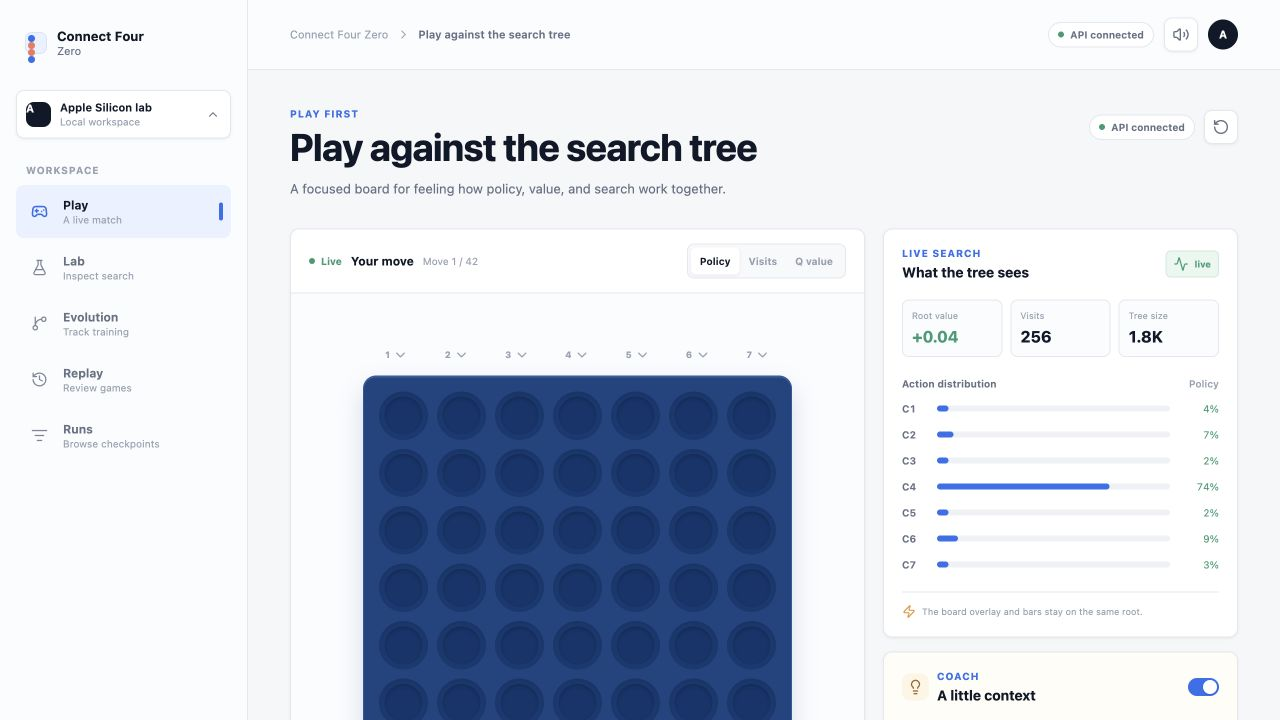
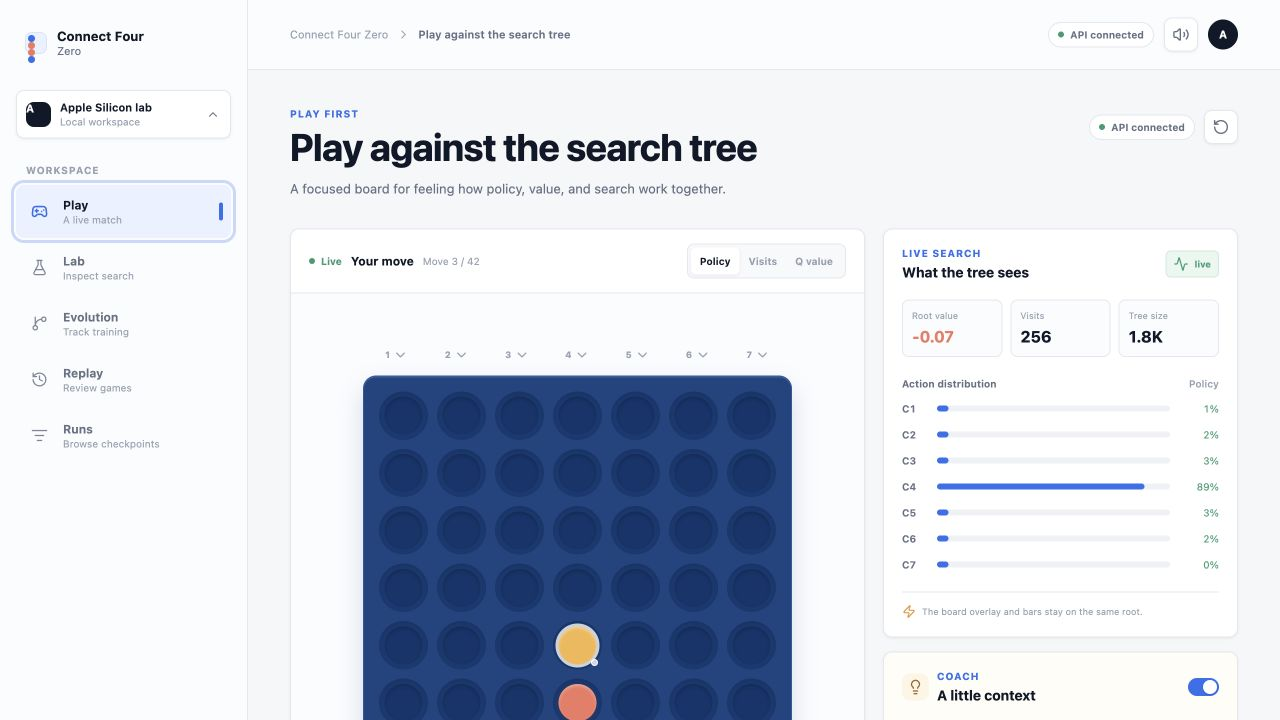
docs: tell the Connect Four Zero story

diff --git a/README.md b/README.md
@@ -1,45 +1,26 @@
+<div align="center">
+
 # Connect Four Zero
 
-A local, inspectable AlphaGo Zero-style laboratory for standard 7x6 Connect Four. The agent starts from random weights, creates its own training data through self-play, evaluates new candidates against previous champions, and exposes its policy, value, and MCTS search in a playable interface.
+**A neural network wakes up knowing nothing about Connect Four. It plays itself, argues with its past selves, and slowly becomes an opponent you can challenge.**
 
-![Connect Four Zero play interface](docs/connect-four-zero.jpg)
+No opening book. No human games. No handcrafted strategy. No perfect solver hiding inside training.
 
-## What You Can Do
+</div>
 
-- Play against historical checkpoints at four search strengths.
-- Watch policy priors, visit counts, Q-values, root value, and principal variations.
-- Train a new model from zero for 5, 15, 30, or 60 minutes, or indefinitely.
-- Scrub through self-play, evaluation, and human games.
-- Compare generations and promotion results.
-- Export recorded games as MP4 and portable replay JSON.
-- Grade moves with an isolated exact Connect Four solver in Coach mode.
+![A live game against the generation-19 checkpoint, with MCTS policy and value exposed](docs/connect-four-zero.jpg)
 
-The solver is an auditor only. It is not imported by self-play or training.
+> **In short:** this repository contains the complete learning loop, a one-hour self-trained checkpoint, a playable neural opponent, a live MCTS microscope, generation history, exact move auditing, and deterministic replay export.
 
-## Bundled Champion
+## What Is This?
 
-The included checkpoint was trained by this repository for one hour on an Apple M5 Max:
+Connect Four Zero is a small, inspectable AlphaGo Zero-style experiment that runs locally on Apple Silicon.
 
-| Measurement | Result |
-| --- | ---: |
-| Network | 64 channels, 6 residual blocks |
-| Parameters | 449,370 |
-| Promoted generations | 19 |
-| Recorded self-play games | 1,905 |
-| Replay positions | 57,264 |
-| Against uniform random, 64 MCTS simulations | 200 wins / 200 games |
-| Exact tactical probes, 800 MCTS simulations | 21 / 24 |
+The model begins with random weights. It generates every lesson by playing against itself, trains on the positions it created, challenges the reigning checkpoint, and promotes a new champion only when the candidate wins the arena. The browser lets you interrupt that loop, inspect what the search tree believes, replay old generations, or sit down across from the resulting model yourself.
 
-This is a self-trained research checkpoint, not a perfect Connect Four solver. A human can beat it. New training runs always initialize randomly and cannot consume the bundled weights, games, or replay buffer.
+The point is not to claim that Connect Four has been solved. It is to make the machinery of self-play tangible. You can watch policy become less diffuse, see MCTS disagree with the raw network, discover where the value head is confidently wrong, and then punish those mistakes in a real game.
 
-## Run It
-
-Requirements:
-
-- Apple Silicon Mac with PyTorch MPS for production training
-- Conda
-- Node.js and npm
-- ffmpeg for MP4 replay export
+## Play In About A Minute
 
 ```bash
 conda env create -f environment.yml
@@ -49,45 +30,167 @@ npm --prefix web run build
 make start
 ```
 
-Open [http://127.0.0.1:8000](http://127.0.0.1:8000).
+Open [http://127.0.0.1:8000](http://127.0.0.1:8000). You land directly in **Play**.
 
-For frontend and API development with hot reload:
+### How To Play
 
-```bash
-make dev
+1. You are red and move first. Click any column to drop a disc.
+2. Zero searches the position, shows how its visits evolve, and drops the yellow response.
+3. Switch the board overlay between **Policy**, **Visits**, and **Q value**.
+4. Choose a checkpoint and search budget:
+   - **Beginner:** early checkpoint, 32 simulations
+   - **Intermediate:** historical checkpoint, 96 simulations
+   - **Hard:** final checkpoint, 256 simulations
+   - **Champion:** final checkpoint, 800 simulations
+5. Connect four horizontally, vertically, or diagonally. The winning discs lift and a line marks the connection.
+
+The tree is advice, not an oracle. Ignoring its preferred move is allowed. In fact, finding a line it misunderstood is half the fun.
+
+## The Fun Part
+
+- **Play the timeline.** Fight an early checkpoint, then jump to generation 19 and feel what changed.
+- **Watch search change its mind.** In Lab, scrub from the first simulation to the settled visit distribution.
+- **Interrogate a move.** Compare the network prior, MCTS visits, Q-values, root value, and principal variation.
+- **Beat the champion.** It is trained, not solved. Human victories are saved with every search trace.
+- **Replay the embarrassment.** Terminal games preserve the connected-four line, solver grade, and move-by-move timeline.
+- **Start over from nothing.** Launch a clean 5, 15, 30, or 60-minute experiment and watch a different lineage emerge.
+
+## Four Views Into The Same Mind
+
+| Search Lab | Evolution |
+| --- | --- |
+| ![Scrubbing through MCTS snapshots and inspecting policy, value, entropy, and principal variations](docs/search-lab.jpg) | ![Generation 19 learning curve, arena history, replay positions, and checkpoint information](docs/evolution.jpg) |
+| **Open the position up.** Branch any board state and watch the tree settle. | **Watch the lineage.** Loss falls while candidates repeatedly challenge their predecessor. |
+
+| Replay | Export |
+| --- | --- |
+| ![A saved human loss with four winning discs and the connected line highlighted](docs/replay.jpg) | ![A real evaluation game exported by the replay renderer](docs/self-play-replay.gif) |
+| **Review decisive moments.** Human, self-play, and arena games share one scrubber. | **Take it with you.** Every replay can become deterministic JSON and MP4. |
+
+## What Happened In One Hour?
+
+The bundled checkpoint came from one real 60-minute run on an Apple M5 Max.
+
+| Measurement | Result |
+| --- | ---: |
+| Residual network | 64 channels, 6 blocks |
+| Trainable parameters | 449,370 |
+| Promoted generations | 19 |
+| Games recorded | 1,905 total: 1,793 self-play + 112 arena |
+| Replay positions | 57,264 |
+| Against uniform random at 64 simulations | 200 wins / 200 games |
+| Exact tactical probes at 32 simulations | 19 / 24 |
+| Exact tactical probes at 800 simulations | 21 / 24 |
+
+That sounds impressive until a human sits down. The first “Champion” lost to casual play. That failure turned out to be one of the most useful results in the project.
+
+### Things The Experiment Made Obvious
+
+**Beating random is a weak milestone.** A 200–0 record looked dramatic and said very little about tactical reliability. The exact solver suite exposed mistakes immediately.
+
+**Search helps, but it cannot repair everything.** Raising MCTS from 32 to 800 simulations improved exact move accuracy from 19/24 to 21/24. The remaining misses come from a policy/value model that still misunderstands some positions.
+
+**“100% arena score” is relative.** It means one candidate beat its previous champion in that promotion cycle. It does not mean 100% against humans, the solver, or every historical strategy.
+
+**A tiny model can still become interesting.** The complete network is smaller than half a million parameters. On the M5 Max, batch-1,024 FP16 reached roughly 106,000 training positions per second and 406,000 inference positions per second in the focused benchmark.
+
+**The visible failure is better than a hidden metric.** Human games are now first-class replays. When the model loses, the useful question is no longer “why is the win rate low?” but “which search trace made the losing move look attractive?”
+
+## How The Learning Loop Works
+
+```mermaid
+flowchart LR
+    A[Random network] --> B[64 concurrent self-play games]
+    B --> C[State, visit policy, final outcome]
+    C --> D[Replay window]
+    D --> E[Policy and value training]
+    E --> F[Candidate checkpoint]
+    F --> G{Paired arena}
+    G -->|score above 55%| H[New champion]
+    G -->|otherwise| I[Rejected snapshot]
+    H --> B
+    I --> B
 ```
 
-## Train From Zero
+For each position, PUCT combines the network prior, accumulated Q-value, and an exploration bonus. The target policy is not the network’s first guess; it is the distribution of MCTS visits after search. The value target is simply the eventual outcome from the current player’s perspective.
+
+Training uses no rollout policy and never resigns self-play games.
+
+## What Is Under The Hood?
+
+### Neural network
+
+- Three 6x7 planes: player one, player two, side to move
+- 64-channel convolutional stem
+- Six residual blocks with batch normalization
+- Seven-action policy head
+- Scalar `tanh` value head
+- Horizontal reflection and color-swap augmentation
+
+### Search and learning
+
+- PUCT Monte Carlo tree search with legal-action masking
+- Value sign reversal during backup
+- Subtree reuse
+- Root Dirichlet noise during self-play
+- 100,000-position uniform replay window
+- SGD with momentum and budget-relative learning-rate steps
+- Batch size 1,024 with MPS FP16 autocast
+- Historical champions, rejected candidates, search traces, and representative games retained locally
+
+### Product
+
+- React and TypeScript interface
+- FastAPI backend and WebSocket progress stream
+- SQLite run storage with atomic PyTorch checkpoints
+- Optional private W&B tracking
+- Exact bitboard/negamax auditor isolated from training imports
+- Deterministic replay JSON and ffmpeg MP4 export
+
+## Train Your Own Lineage
+
+The preset one-hour experiment is:
 
 ```bash
 make train-60
 ```
 
-Production training refuses to start unless `torch.backends.mps.is_available()` is true. CPU execution is reserved for tests and explicit debugging.
+Or launch it from **Evolution → Train from zero**. New runs cannot consume the bundled champion, its games, or its replay buffer.
 
-The default learning system uses:
+Production training requires PyTorch MPS. CPU execution is available only for tests and explicit debugging.
 
-- Three 6x7 input planes
-- A residual policy/value network
-- PUCT Monte Carlo tree search
-- 64 concurrent self-play games
-- A 100,000-position replay window
-- Candidate-versus-champion promotion gates
-- Batch size 1,024 with MPS FP16 autocast
-- Horizontal reflection and color-swap augmentation
-
-Profile model, precision, and batch-size variants on Apple Metal:
+Profile the M5 yourself:
 
 ```bash
 connect4-zero benchmark-mps
 ```
 
-Audit a checkpoint against a deterministic exact-solver suite:
+Challenge any checkpoint with deterministic exact positions:
 
 ```bash
 connect4-zero audit-accuracy \
   runs/<run-id>/checkpoints/<checkpoint>.pt \
   --positions 24 --simulations 800
+```
+
+## Project Map
+
+```text
+src/connect4_zero/
+  game.py          rules, perspectives, terminal values
+  network.py       residual policy/value model and MPS evaluator
+  mcts.py          batched PUCT search
+  trainer.py       self-play, replay, optimization, arena gating
+  auditor/         isolated exact solver
+  service.py       human games and training lifecycle
+  store.py         SQLite persistence
+  export.py        deterministic replay renderer
+  api.py           REST and WebSocket interface
+
+web/src/
+  App.tsx          Play, Lab, Evolution, Replay, Runs
+  components/      board and visual controls
+  lib/             API adapter, local demo behavior, sound
 ```
 
 ## Verification
@@ -97,11 +200,11 @@ make test
 npm --prefix web run build
 ```
 
-The test suite covers game rules, bitboard equivalence, PUCT behavior, perspective changes, augmentation, checkpoint gating, persistence, MPS execution, solver isolation, API behavior, and frontend data contracts.
+Tests cover game legality, gravity, wins, draws, perspective changes, symmetry augmentation, bitboard equivalence, PUCT selection and backup, checkpoint gating, persistence, MPS forward/backward execution, API behavior, replay export, and the solver import boundary.
 
 ## Experiment Tracking
 
-Local SQLite databases and checkpoints remain the source of truth. W&B logging is optional and never interrupts training.
+SQLite databases and `.pt` checkpoints are the source of truth. W&B is optional and failures never stop local training.
 
 ```bash
 wandb login
@@ -109,18 +212,22 @@ export WANDB_PROJECT=connect-four-zero
 make train-60
 ```
 
-Runs, checkpoints, exports, W&B state, environments, credentials, and frontend build output are excluded from Git.
+Runs, checkpoints, exports, credentials, W&B state, environments, and frontend build output are excluded from Git.
 
-## Deployment
+## Can It Be Deployed?
 
-The React frontend can be deployed as a static showcase. In that mode it uses the bundled evolution timeline and replay data, but it does **not** run the neural checkpoint.
+Yes, with one important distinction.
 
-Real neural play requires the FastAPI service because every move performs MCTS backed by the policy/value network. Training should remain on an Apple Silicon machine; inference can be adapted to a small CPU or GPU service. The clean public architecture is therefore:
+The React application can be hosted statically as a visual showcase. It can display the bundled timeline and replays, but a static host cannot execute the PyTorch checkpoint.
+
+Real neural play needs the FastAPI service because every move runs MCTS backed by the policy/value network:
 
 ```text
-Static frontend  ->  FastAPI inference service  ->  bundled .pt checkpoint
-                                      |
-                                      +-> optional local training runs
+Browser  →  FastAPI inference service  →  policy/value checkpoint
+                           |
+                           +→ read-only replay and run data
 ```
 
-Do not expose unrestricted training endpoints on a public deployment. A hosted version should serve read-only runs and rate-limited human games while keeping training local.
+Training should stay on the Apple Silicon machine. A public service should expose rate-limited human play and read-only experiment data, while keeping run creation and training controls private.
+
+That split gives visitors the real model without handing the internet a button that starts an unlimited training job.
